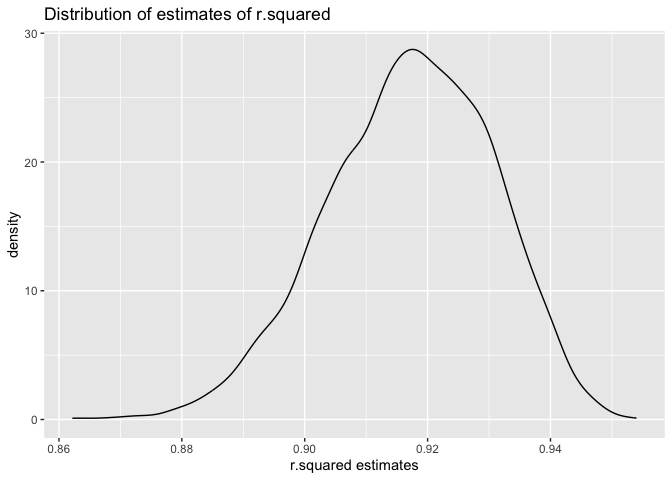
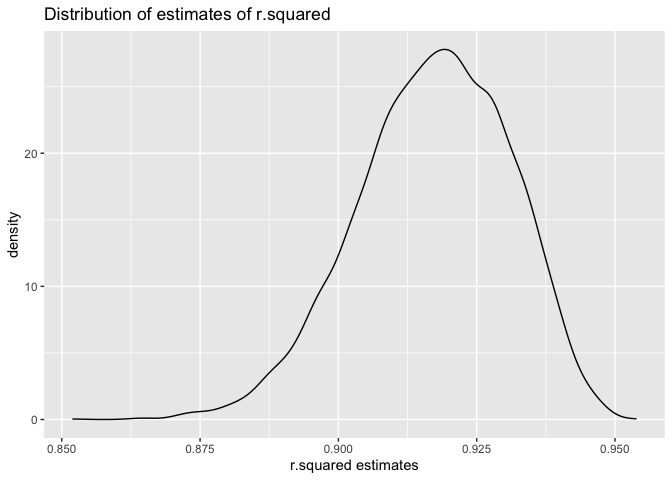
finish problem 3

diff --git a/p8105_hw6_qh2284.md b/p8105_hw6_qh2284.md
@@ -19,9 +19,9 @@ homi = read_csv("./dataset/homicide-data.csv")
     ## ℹ Use `spec()` to retrieve the full column specification for this data.
     ## ℹ Specify the column types or set `show_col_types = FALSE` to quiet this message.
 
-**Create a `city_state` variable (e.g. "Baltimore, MD"), and a binary
+**Create a `city_state` variable (e.g. “Baltimore, MD”), and a binary
 variable indicating whether the homicide is solved. Omit cities Dallas,
-TX; Phoenix, AZ; and Kansas City, MO – these don't report victim race.
+TX; Phoenix, AZ; and Kansas City, MO – these don’t report victim race.
 Also omit Tulsa, AL – this is a data entry mistake. For this problem,
 limit your analysis those for whom `victim_race` is `white` or `black`.
 Be sure that `victim_age` is numeric.**
@@ -35,11 +35,6 @@ homi <- homi %>%
   mutate(victim_age = as.numeric(victim_age))
 ```
 
-    ## Warning: There was 1 warning in `mutate()`.
-    ## ℹ In argument: `victim_age = as.numeric(victim_age)`.
-    ## Caused by warning:
-    ## ! NAs introduced by coercion
-
 **For the city of Baltimore, MD, use the `glm` function to fit a
 logistic regression with resolved vs unresolved as the outcome and
 victim age, sex and race as predictors. Save the output of `glm` as an R
@@ -51,7 +46,7 @@ fixed.**
 ``` r
 balt = homi %>% 
   filter(city == "Baltimore") %>% 
-  select(solved, victim_age, victim_race, victim_sex) %>%
+  dplyr::select(solved, victim_age, victim_race, victim_sex) %>%
   mutate(victim_sex = fct_relevel(victim_sex, "Female"))
 ```
 
@@ -97,7 +92,7 @@ odd_ci_balt
 
 **Now run `glm` for each of the cities in your dataset, and extract the
 adjusted odds ratio (and CI) for solving homicides comparing male
-victims to female victims. Do this within a "tidy" pipeline, making use
+victims to female victims. Do this within a “tidy” pipeline, making use
 of `purrr::map`, list columns, and `unnest` as necessary to create a
 dataframe with estimated ORs and CIs for each city.**
 
@@ -199,9 +194,9 @@ Albuquerque, NM has the largest OR.
 
 ## Problem 2
 
-**The boostrap is helpful when you'd like to perform inference for a
-parameter / value / summary that doesn't have an easy-to-write-down
-distribution in the usual repeated sampling framework. We'll focus on a
+**The boostrap is helpful when you’d like to perform inference for a
+parameter / value / summary that doesn’t have an easy-to-write-down
+distribution in the usual repeated sampling framework. We’ll focus on a
 simple linear regression with `tmax` as the response with `tmin` and
 `prcp` as the predictors, and are interested in the distribution of two
 quantities estimated from these data:**
@@ -232,7 +227,7 @@ weather_df =
     name = recode(id, USW00094728 = "CentralPark_NY"),
     tmin = tmin / 10,
     tmax = tmax / 10) |>
-  select(name, id, everything())
+  dplyr::select(name, id, everything())
 ```
 
     ## using cached file: /Users/qin/Library/Caches/org.R-project.R/R/rnoaa/noaa_ghcnd/USW00094728.dly
@@ -249,7 +244,7 @@ boot_strap = weather_df %>%
     mods_beta = map(mods, broom::glance),
     mods_r2 = map(mods, broom::tidy)) %>% 
   unnest(mods_r2, mods_beta) %>% 
-  select(.id, term, estimate, r.squared) %>% 
+  dplyr::select(.id, term, estimate, r.squared) %>% 
   pivot_wider(names_from = term, values_from = estimate) %>% 
   rename(
     beta_0 = `(Intercept)`,
@@ -286,12 +281,12 @@ head(res)
     ## # A tibble: 6 × 2
     ##   r.squared log_beta
     ##       <dbl>    <dbl>
-    ## 1     0.927   NaN   
-    ## 2     0.898    -5.46
-    ## 3     0.918   NaN   
-    ## 4     0.922   NaN   
-    ## 5     0.884    -4.54
-    ## 6     0.921   NaN
+    ## 1     0.904      NaN
+    ## 2     0.923      NaN
+    ## 3     0.921      NaN
+    ## 4     0.919      NaN
+    ## 5     0.918      NaN
+    ## 6     0.933      NaN
 
 ``` r
 # calculate CI for r-squared and log
@@ -308,8 +303,8 @@ r2_ci
 
 |       |         x |
 |:------|----------:|
-| 2.5%  | 0.8892360 |
-| 97.5% | 0.9407594 |
+| 2.5%  | 0.8883071 |
+| 97.5% | 0.9406110 |
 
 ``` r
 #log_ci
@@ -336,20 +331,163 @@ distribution but left-skewed.
 **Load and clean the data for regression analysis (i.e. convert numeric
 to factor where appropriate, check for missing data, etc.).**
 
-Propose a regression model for birthweight. This model may be based on a
-hypothesized structure for the factors that underly birthweight, on a
+``` r
+# load the dataset
+birth = read.csv("./dataset/birthweight.csv")
+```
+
+``` r
+# tidy
+birth = birth %>%
+  janitor::clean_names() %>% 
+  mutate(babysex = case_when(babysex == 1 ~ 'male',
+                             babysex == 2 ~ 'female'),
+         frace = recode(frace, "1" = "White", "2" = "Black", "3" = "Asian", "4" = "Puerto Rican", "8" = "Other", "9" = "Unknown"),
+         malform = case_when(malform == 0 ~ 'absent',
+                             malform == 1 ~ 'present'),
+         mrace = recode(mrace, "1" = "White", "2" = "Black", "3" = "Asian", "4" = "Puerto Rican", "8" = "Other"))
+
+# check NAs
+sum(is.na(birth))
+```
+
+    ## [1] 0
+
+There’s no NAs in this dataset.
+
+**Propose a regression model for birthweight. This model may be based on
+a hypothesized structure for the factors that underly birthweight, on a
 data-driven model-building process, or a combination of the two.
 Describe your modeling process and show a plot of model residuals
 against fitted values – use `add_predictions` and `add_residuals` in
-making this plot.
+making this plot.**
 
-Compare your model to two others:
+FIrst of all, I fit a model based on all data (babysex, bhead, blength,
+delwt, fincome, gaweeks, mheight, mrace, parity, ppwt and smoken) as
+predictors. In this case, I applied backward stepwise.
 
-- One using length at birth and gestational age as predictors (main
-  effects only)
+``` r
+# fit a full model
+full_model = lm(bwt ~ ., data = birth) %>% 
+  step(direction = "backward", trace = FALSE) 
 
-- One using head circumference, length, sex, and all interactions
-  (including the three-way interaction) between these
+full_model %>% 
+  broom::tidy() %>% 
+  knitr::kable()
+```
 
-Make this comparison in terms of the cross-validated prediction error;
-use `crossv_mc` and functions in `purrr` as appropriate.
+| term              |      estimate |   std.error |   statistic |   p.value |
+|:------------------|--------------:|------------:|------------:|----------:|
+| (Intercept)       | -6145.1506698 | 141.9496468 | -43.2910599 | 0.0000000 |
+| babysexmale       |   -28.5580171 |   8.4548958 |  -3.3776900 | 0.0007374 |
+| bhead             |   130.7770408 |   3.4465672 |  37.9441440 | 0.0000000 |
+| blength           |    74.9471109 |   2.0190479 |  37.1200270 | 0.0000000 |
+| delwt             |     4.1067316 |   0.3920592 |  10.4747754 | 0.0000000 |
+| fincome           |     0.3180229 |   0.1747477 |   1.8198980 | 0.0688436 |
+| gaweeks           |    11.5924873 |   1.4620657 |   7.9288417 | 0.0000000 |
+| mheight           |     6.5940377 |   1.7848817 |   3.6943835 | 0.0002231 |
+| mraceBlack        |   -63.9057046 |  42.3662612 |  -1.5084103 | 0.1315225 |
+| mracePuerto Rican |   -25.7913672 |  45.3501537 |  -0.5687162 | 0.5695783 |
+| mraceWhite        |    74.8867755 |  42.3146313 |   1.7697608 | 0.0768374 |
+| parity            |    96.3046933 |  40.3362158 |   2.3875490 | 0.0170038 |
+| ppwt              |    -2.6755853 |   0.4273585 |  -6.2607517 | 0.0000000 |
+| smoken            |    -4.8434197 |   0.5855757 |  -8.2712102 | 0.0000000 |
+
+With the model, I drew a plot of model residuals against fitted values.
+
+``` r
+birth %>% 
+    add_predictions(full_model) %>% 
+    add_residuals(full_model) %>% 
+    ggplot(aes(x = pred, y = resid)) +
+    geom_point()  + 
+    geom_smooth(method = "lm") + 
+    labs(title = "Residuals against fitted values", 
+       x = "Predicted", 
+       y = "Residuals")
+```
+
+    ## `geom_smooth()` using formula = 'y ~ x'
+
+![](p8105_hw6_qh2284_files/figure-gfm/unnamed-chunk-18-1.png)<!-- -->
+
+Since the slope of the fitted line is almost 0, it’s hard for us to
+analyze the relationship.
+
+**Compare your model to two others:**
+
+- **One using length at birth and gestational age as predictors (main
+  effects only)**
+
+``` r
+# model 2
+model2 = lm(bwt ~ blength + gaweeks, data = birth)
+
+model2 %>%
+  broom::tidy() %>% 
+  knitr::kable()
+```
+
+| term        |    estimate | std.error | statistic | p.value |
+|:------------|------------:|----------:|----------:|--------:|
+| (Intercept) | -4347.66707 | 97.958360 | -44.38281 |       0 |
+| blength     |   128.55569 |  1.989891 |  64.60439 |       0 |
+| gaweeks     |    27.04673 |  1.717930 |  15.74379 |       0 |
+
+- **One using head circumference, length, sex, and all interactions
+  (including the three-way interaction) between these**
+
+``` r
+# model 3
+model3 = lm(bwt ~ bhead * blength * babysex, data = birth)
+
+model3 %>%
+  broom::tidy() %>%
+  knitr::kable()
+```
+
+| term                      |     estimate |    std.error |  statistic |   p.value |
+|:--------------------------|-------------:|-------------:|-----------:|----------:|
+| (Intercept)               |  -801.948671 | 1102.3077046 | -0.7275180 | 0.4669480 |
+| bhead                     |   -16.597546 |   34.0916082 | -0.4868514 | 0.6263883 |
+| blength                   |   -21.645964 |   23.3720477 | -0.9261475 | 0.3544209 |
+| babysexmale               | -6374.868351 | 1677.7669213 | -3.7996150 | 0.0001469 |
+| bhead:blength             |     3.324444 |    0.7125586 |  4.6655020 | 0.0000032 |
+| bhead:babysexmale         |   198.393181 |   51.0916850 |  3.8830816 | 0.0001047 |
+| blength:babysexmale       |   123.772887 |   35.1185360 |  3.5244319 | 0.0004288 |
+| bhead:blength:babysexmale |    -3.878053 |    1.0566296 | -3.6702106 | 0.0002453 |
+
+**Make this comparison in terms of the cross-validated prediction error;
+use `crossv_mc` and functions in `purrr` as appropriate.**
+
+``` r
+cv_birth = 
+    crossv_mc(birth, 100) %>% 
+    mutate(train = map(train, as_tibble),
+           test = map(test,as_tibble)) %>% 
+   mutate(fit1 = map(train,~full_model),
+          fit2 = map(train,~model2),
+         fit3 = map(train,~model3)) %>% 
+    mutate(rmse_fit1 = map2_dbl(fit1, test, ~rmse(model = .x,data = .y)),
+           rmse_fit2 = map2_dbl(fit2, test, ~rmse(model = .x,data = .y)),
+           rmse_fit3 = map2_dbl(fit3, test, ~rmse(model = .x,data = .y))
+    )
+
+cv_birth %>% 
+  dplyr::select(starts_with("rmse")) %>% 
+  pivot_longer(
+    everything(),
+    names_to = "model", 
+    values_to = "rmse",
+    names_prefix = "rmse_") %>% 
+  mutate(model = fct_inorder(model)) %>% 
+  ggplot(aes(x = model, y = rmse)) + 
+  geom_violin()
+```
+
+![](p8105_hw6_qh2284_files/figure-gfm/unnamed-chunk-21-1.png)<!-- -->
+
+Comment: From above, we could conclude that full model (which consider
+all predictors) has the best distribution of RMSE (smallest RMSE) while
+fit2 (using length at birth and gestational age as predictors) has the
+worst distribution of RMSE (largest RMSE).
